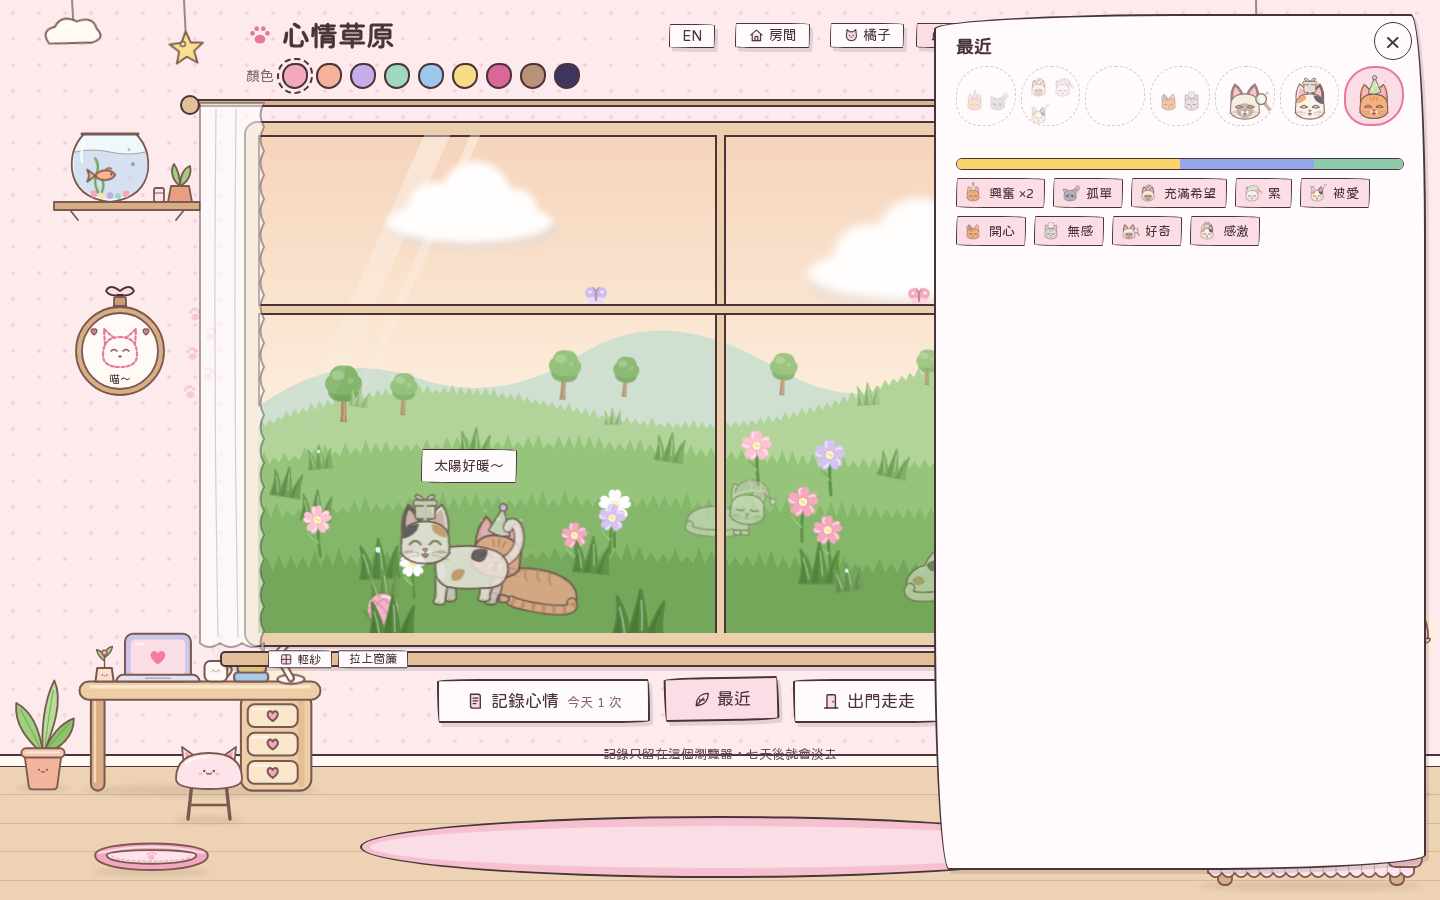
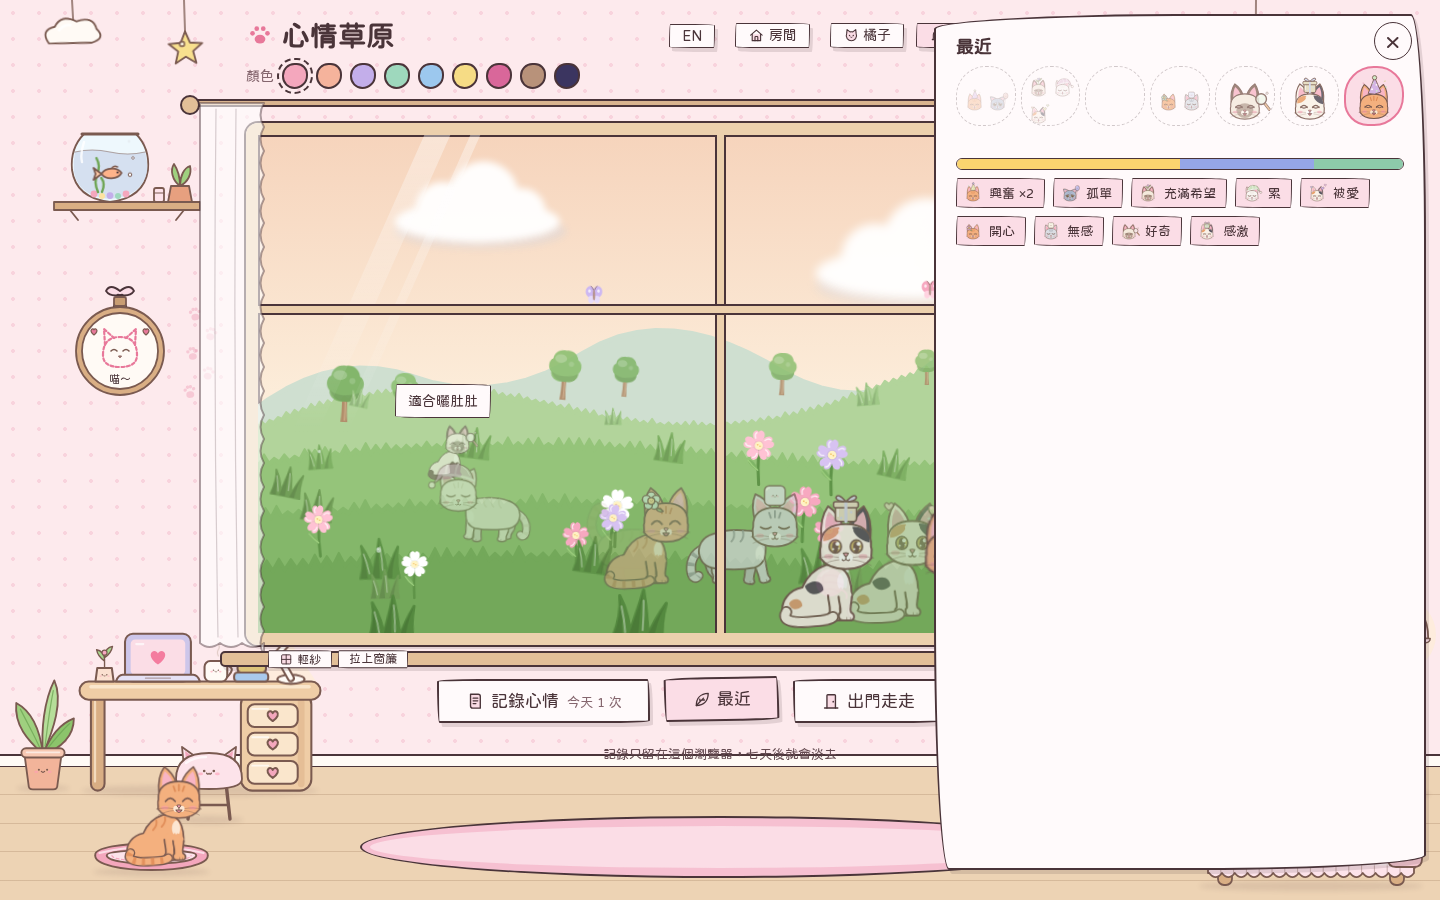
feat: add time

diff --git a/index.html b/index.html
@@ -277,6 +277,24 @@
   @keyframes drift { from { left: -140px; } to { left: 105%; } }
   @keyframes spin { to { transform: rotate(360deg); } }
   [data-theme="night"] .sun { filter: grayscale(1) brightness(1.5); }
+  /* 時間感：清晨薄霧、傍晚夕陽、晚上星星和月亮（照電腦上的時間） */
+  .stars { position: absolute; inset: 0 0 56% 0; z-index: 241; pointer-events: none; opacity: 0; transition: opacity 3s; }
+  .stars i { position: absolute; width: 3px; height: 3px; border-radius: 50%; background: #fffbe6; box-shadow: 0 0 4px #fff6cc; animation: twinkle 3s ease-in-out infinite alternate; }
+  @keyframes twinkle { from { opacity: .25; } to { opacity: 1; } }
+  .moon { position: absolute; top: 7%; right: 9%; z-index: 241; width: calc(46px * var(--ms, 1)); aspect-ratio: 1; border-radius: 50%; pointer-events: none;
+    box-shadow: inset calc(-12px * var(--ms, 1)) calc(3px * var(--ms, 1)) 0 0 #fff4cf; filter: drop-shadow(0 0 10px rgba(255, 240, 190, .75)); opacity: 0; transition: opacity 3s; }
+  .mist { position: absolute; left: 0; right: 0; top: 36%; height: 30%; pointer-events: none; opacity: 0; transition: opacity 3s;
+    background: linear-gradient(rgba(255, 255, 255, 0), rgba(255, 255, 255, .6) 45%, rgba(255, 255, 255, 0)); filter: blur(4px); }
+  .time-tint { position: absolute; inset: 0; z-index: 240; pointer-events: none; opacity: 0; transition: opacity 3s; }
+  .meadow[data-time="dawn"] .mist { opacity: .75; }
+  .meadow[data-time="dawn"] .time-tint { opacity: 1; background: linear-gradient(rgba(255, 214, 226, .22), rgba(255, 255, 255, 0) 55%); }
+  .meadow[data-time="dusk"] .time-tint { opacity: 1; background: linear-gradient(rgba(255, 168, 120, .3), rgba(255, 190, 150, .14) 55%, rgba(130, 90, 130, .1)); }
+  .meadow[data-time="night"] .time-tint { opacity: 1; background: linear-gradient(rgba(38, 40, 96, .46), rgba(48, 50, 108, .32) 60%, rgba(28, 30, 72, .38)); }
+  .meadow[data-time="night"] .stars, .meadow[data-time="night"] .moon { opacity: 1; }
+  .meadow[data-time="night"] .sun { visibility: hidden; }
+  .meadow[data-time="night"] .cloud { opacity: .45; }
+  .meadow.gloomy .stars, .meadow.gloomy .moon { opacity: 0 !important; }
+  .meadow[data-time="night"] .fly { opacity: 0; }   /* 晚上蝴蝶也去睡了 */
   [data-theme="night"] .cloud { opacity: .45; }
 
   .deco { position: absolute; transform-origin: bottom center; animation: sway 3s ease-in-out infinite alternate; pointer-events: none; }
@@ -835,14 +853,17 @@
   <div class="curtains" id="curtains"></div>
   <div class="meadow" id="meadow">
     <!-- 窗外的景色不畫線：草地用綠色深淺分出遠近，每一層的上緣是鋸齒狀的草尖（由程式畫） -->
+    <div class="stars" id="stars" aria-hidden="true"></div><div class="moon" aria-hidden="true"></div>
     <svg class="scene far" viewBox="0 0 1000 300" preserveAspectRatio="none" aria-hidden="true"></svg>
     <div class="trees" aria-hidden="true"></div>
+    <div class="mist" aria-hidden="true"></div>
     <svg class="scene near" viewBox="0 0 1000 300" preserveAspectRatio="none" aria-hidden="true"></svg>
     <div class="sun" aria-hidden="true"></div>
     <svg class="rainbow" id="rainbow" viewBox="0 0 200 100" aria-hidden="true"><g fill="none" stroke-width="7" stroke-linecap="round" opacity=".75">
       <path d="M10 100 A90 90 0 0 1 190 100" stroke="#f9c4c9"/><path d="M17 100 A83 83 0 0 1 183 100" stroke="#fde0b8"/>
       <path d="M24 100 A76 76 0 0 1 176 100" stroke="#fdf2bf"/><path d="M31 100 A69 69 0 0 1 169 100" stroke="#cdeccb"/>
       <path d="M38 100 A62 62 0 0 1 162 100" stroke="#c8dcf6"/><path d="M45 100 A55 55 0 0 1 155 100" stroke="#ddd0f3"/></g></svg>
+    <div class="time-tint" aria-hidden="true"></div>
     <div class="rain" id="rain" aria-hidden="true"></div>
     <div class="wind" id="wind" aria-hidden="true"></div>
     <div class="weather" id="weather" role="status"></div>
@@ -1325,7 +1346,9 @@ const EN = {
   "我們回來了，休息一下吧": "We're back, let's rest a bit", "外面的朋友都好可愛喔": "The friends outside are so cute",
   "喵～今天過得怎麼樣？選一隻貓告訴我吧！": "Meow~ How was your day? Pick a cat and tell me!",
   "（今天）": " (today)",
-  "語言": "Language", "記錄下來": "Log it", "更多": "More",
+  "語言": "Language", "早上的霧涼涼的": "The morning mist feels cool", "（伸懶腰）早安～": "(stretches) Good morning~", "草上有露珠耶": "There's dew on the grass",
+  "夕陽好漂亮": "The sunset is so pretty", "天空變成橘色了": "The sky turned orange", "要回家吃晚餐了嗎？": "Time to go home for dinner?",
+  "星星好多～": "So many stars~", "月亮好亮": "The moon is so bright", "（打哈欠）有點睏了": "(yawns) getting sleepy", "晚上的草原好安靜": "The meadow is so quiet at night", "記錄下來": "Log it", "更多": "More",
   "「當別人問，今天海上天氣好嗎？妳聽到了，妳聽到，都要回答很晴朗。」": "\"When someone asks you, 'How's the weather out at sea today?' — whenever you hear it, you must answer: 'Clear and sunny.'\"",
   "「即使下這麼大的雨也要這樣回答嗎？」": "\"Even when it's raining this hard?\"", "「是。」": "\"Yes.\"",
   "「即使不想回答也要這樣回答嗎？」": "\"Even when I don't want to answer?\"",
@@ -2282,9 +2305,9 @@ function grassLayer(d, fill, amp, step) {
   let p = `M-10 310 L-10 ${Y(-10).toFixed(1)}`;
   for (let x = -10; x <= 1010; x += amp ? step : 20) {
     p += ` L${x} ${Y(x).toFixed(1)}`;
-    if (amp) p += ` L${(x + step / 2).toFixed(1)} ${(Y(x + step / 2) - amp * (.55 + rand() * .9)).toFixed(1)}`;
+    if (amp) p += ` L${(x + step / 2).toFixed(1)} ${(Y(x + step / 2) - amp * .65 * (.55 + rand() * .9)).toFixed(1)}`;   // 鋸齒矮一點
   }
-  return `<path d="${p} L1010 310Z" fill="${fill}"/>`;
+  return `<path d="${p} L1010 310Z" fill="${fill}" stroke="${fill}" stroke-width="3.2" stroke-linejoin="round"/>`;   // 同色圓角描邊：尖端磨圓
 }
 const HILLS = {
   far:   "M-10 168 Q80 128 170 146 T350 132 T560 140 T760 118 T1010 134",
@@ -3319,8 +3342,15 @@ const WEATHER_FACE = { sunny: "happy", rainbow: "happy", breeze: "calm", clear: 
 const SCENERY_TALK = [["這朵花好香～", "happy"], ["蝴蝶！好想抓～", "happy", "hop"], ["那棵樹好想爬上去", "happy"], ["草地軟軟的", "calm"],
   ["毛線球在那邊！", "happy"], ["花上面停了一隻蝴蝶", "happy"], ["山的那邊有什麼呢？", "calm"]];
 const WET = ["rain", "heavyrain", "thunder"];
+const TIME_TALK = {
+  dawn:  ["早上的霧涼涼的", "（伸懶腰）早安～", "草上有露珠耶"],
+  dusk:  ["夕陽好漂亮", "天空變成橘色了", "要回家吃晚餐了嗎？"],
+  night: ["星星好多～", "月亮好亮", "（打哈欠）有點睏了", "晚上的草原好安靜"],
+};
 function envLine() {
   const wet = WET.includes(weatherKind) || weatherKind === "windy";
+  const tod = timeOfDay();
+  if (!wet && TIME_TALK[tod] && Math.random() < .35) return { text: pick(TIME_TALK[tod]), face: tod === "night" ? "calm" : "happy" };
   if (wet || Math.random() < .6) { const k = weatherKind || "clear"; return { text: pick(WEATHER_TALK[k]), face: WEATHER_FACE[k] }; }
   const [text, face, act] = pick(SCENERY_TALK);
   return { text, face, act };
@@ -3385,6 +3415,22 @@ function updateWeather() {
     wind.append(d);
   }
 })();
+// 時間感：清晨（5–7 點）、白天、傍晚（17:30–19:30）、晚上
+const timeOfDay = () => { const d = new Date(), h = d.getHours() + d.getMinutes() / 60;
+  return h >= 19.5 || h < 5 ? "night" : h < 7 ? "dawn" : h >= 17.5 ? "dusk" : "day"; };
+function updateTime() { $("meadow").dataset.time = timeOfDay(); }
+(function makeStars() {
+  const box = $("stars");
+  for (let i = 0; i < 38; i++) {
+    const d = el("i");
+    d.style.left = (Math.random() * 98) + "%"; d.style.top = (Math.random() * 92) + "%";
+    const k = .6 + Math.random() * .9; d.style.width = d.style.height = (2.4 * k).toFixed(1) + "px";
+    d.style.animationDelay = -(Math.random() * 3) + "s"; d.style.animationDuration = (2 + Math.random() * 2.5) + "s";
+    box.append(d);
+  }
+})();
+updateTime();
+setInterval(updateTime, 60000);
 // 雷雨時偶爾閃一下
 setInterval(() => {
   if (lastWeather !== "thunder" || reduceMotion || Math.random() < .5) return;

diff --git a/README.en.md b/README.en.md
@@ -52,6 +52,8 @@ Mood Meadow is a small practice tool and can't replace professional help. If you
 ### Mood weather
 The sky outside follows your mood: happy is sunny, calm brings a rainbow, irritated gets windy, sad brings rain.
 
+It follows the time of day too: a light mist in the early morning, sunset colors in the evening, and stars and a moon at night.
+
 ![Four kinds of mood weather: sunny, rainbow, windy, rain](docs/weather.png)
 
 ### The meadow

diff --git a/README.md b/README.md
@@ -38,6 +38,8 @@
 ### 心情天氣
 窗外的天空會跟著心情變：開心是晴天、平靜會出現彩虹、煩躁會起風、難過會下雨。
 
+天空也會跟著時間變：清晨有一層薄霧，傍晚帶著夕陽的顏色，晚上會出現星星和月亮。
+
 ![四種心情天氣：晴朗、彩虹、起風、下雨](docs/weather.png)
 
 ### 窗外的草原
